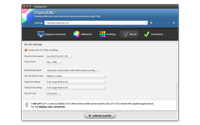
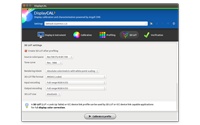
Update theme & screenshots
git-svn-id: https://svn.code.sf.net/p/dispcalgui/code/trunk@4221 6ae35eb0-b8ff-4ca7-919d-0ec1eff389cd

diff --git a/DisplayCAL/DisplayCAL.py b/DisplayCAL/DisplayCAL.py
@@ -731,7 +731,7 @@ def get_header(parent, bitmap=None, label=None, size=(-1, 64), x=80, y=44,
 	header.label_y = y
 	header.scalebitmap = (False, ) * 2
 	header.textshadow = False
-	header.SetBackgroundColour("#003399")
+	header.SetBackgroundColour("#0e59a9")
 	header.SetForegroundColour("#FFFFFF")
 	header.SetMaxFontSize(11)
 	label = label or lang.getstr("header")
@@ -1511,7 +1511,7 @@ class MainFrame(ReportFrame, BaseFrame):
 		if scale > 1:
 			y, w, h = [int(math.floor(v * scale)) for v in (y, w, h)]
 		self.header_btm = BitmapBackgroundPanel(self.headerpanel, size=(w, -1))
-		self.header_btm.BackgroundColour = "#003399"
+		self.header_btm.BackgroundColour = "#0e59a9"
 		self.header_btm.scalebitmap = False, False
 		header_bmp = getbitmap("theme/header", False)
 		if header_bmp.Size[0] >= w and header_bmp.Size[1] >= h + y:
